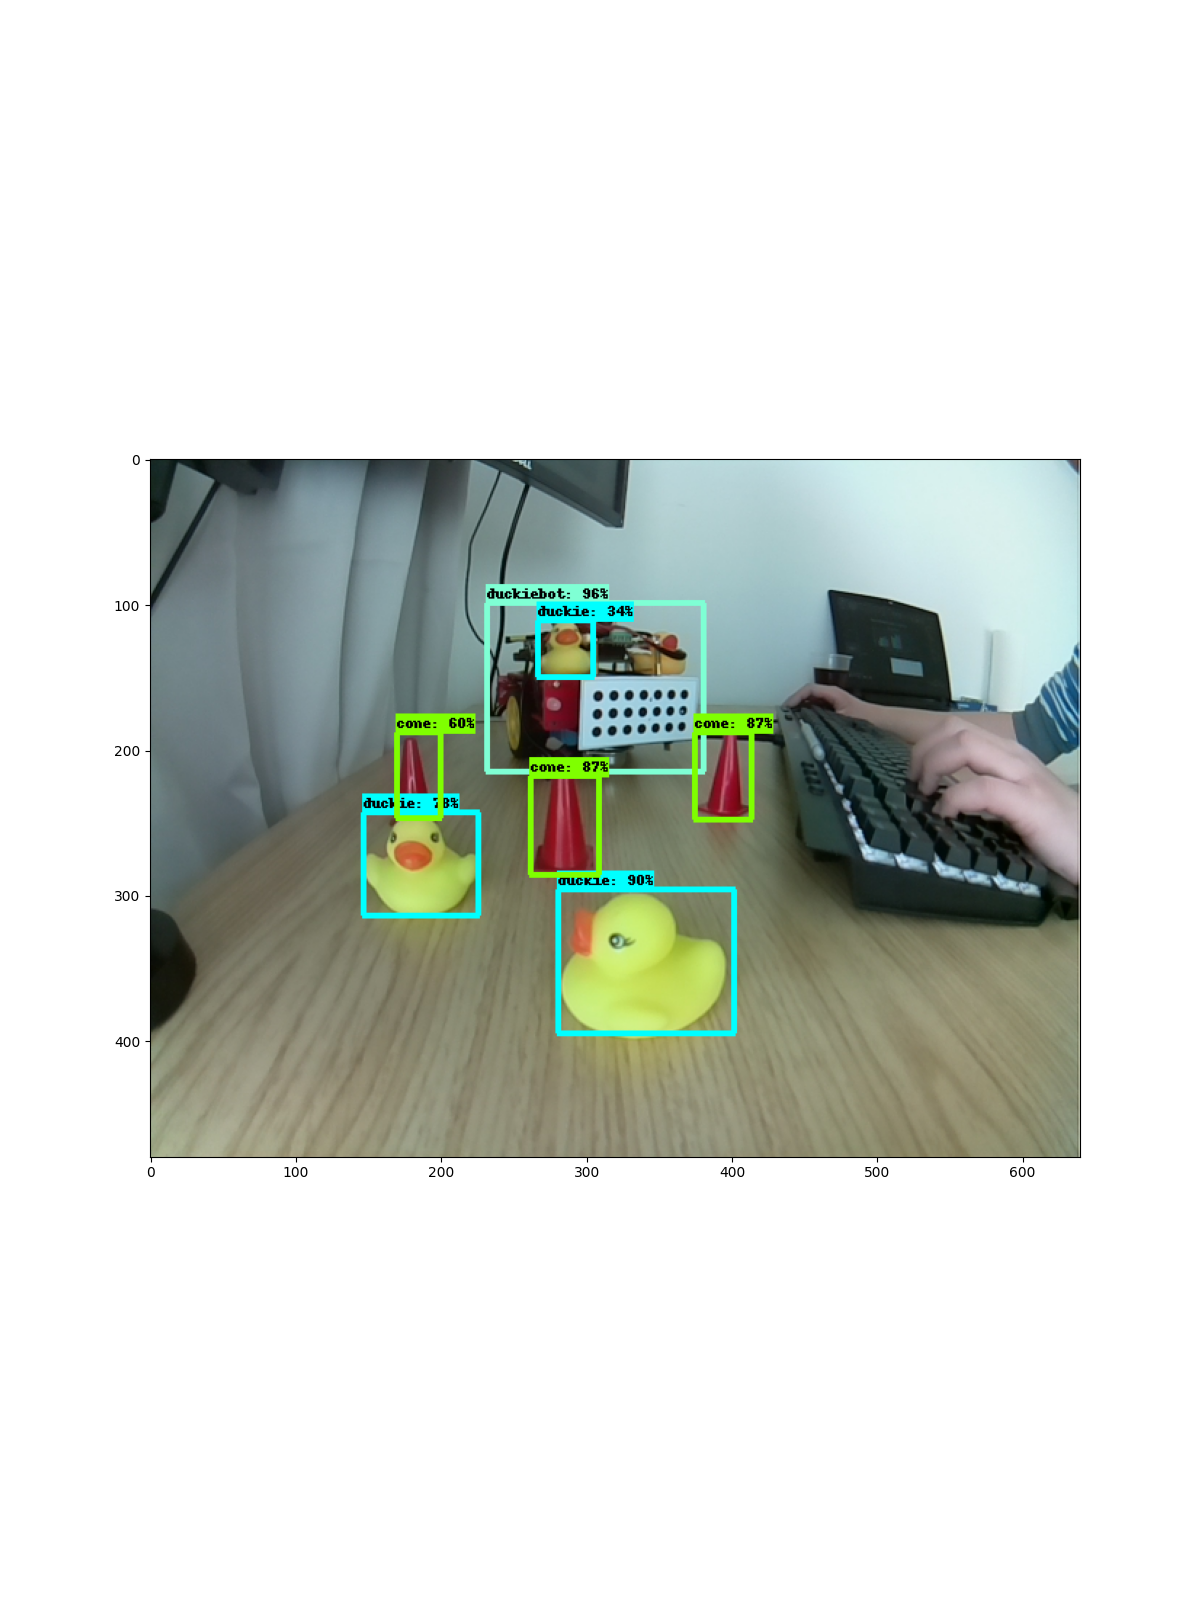
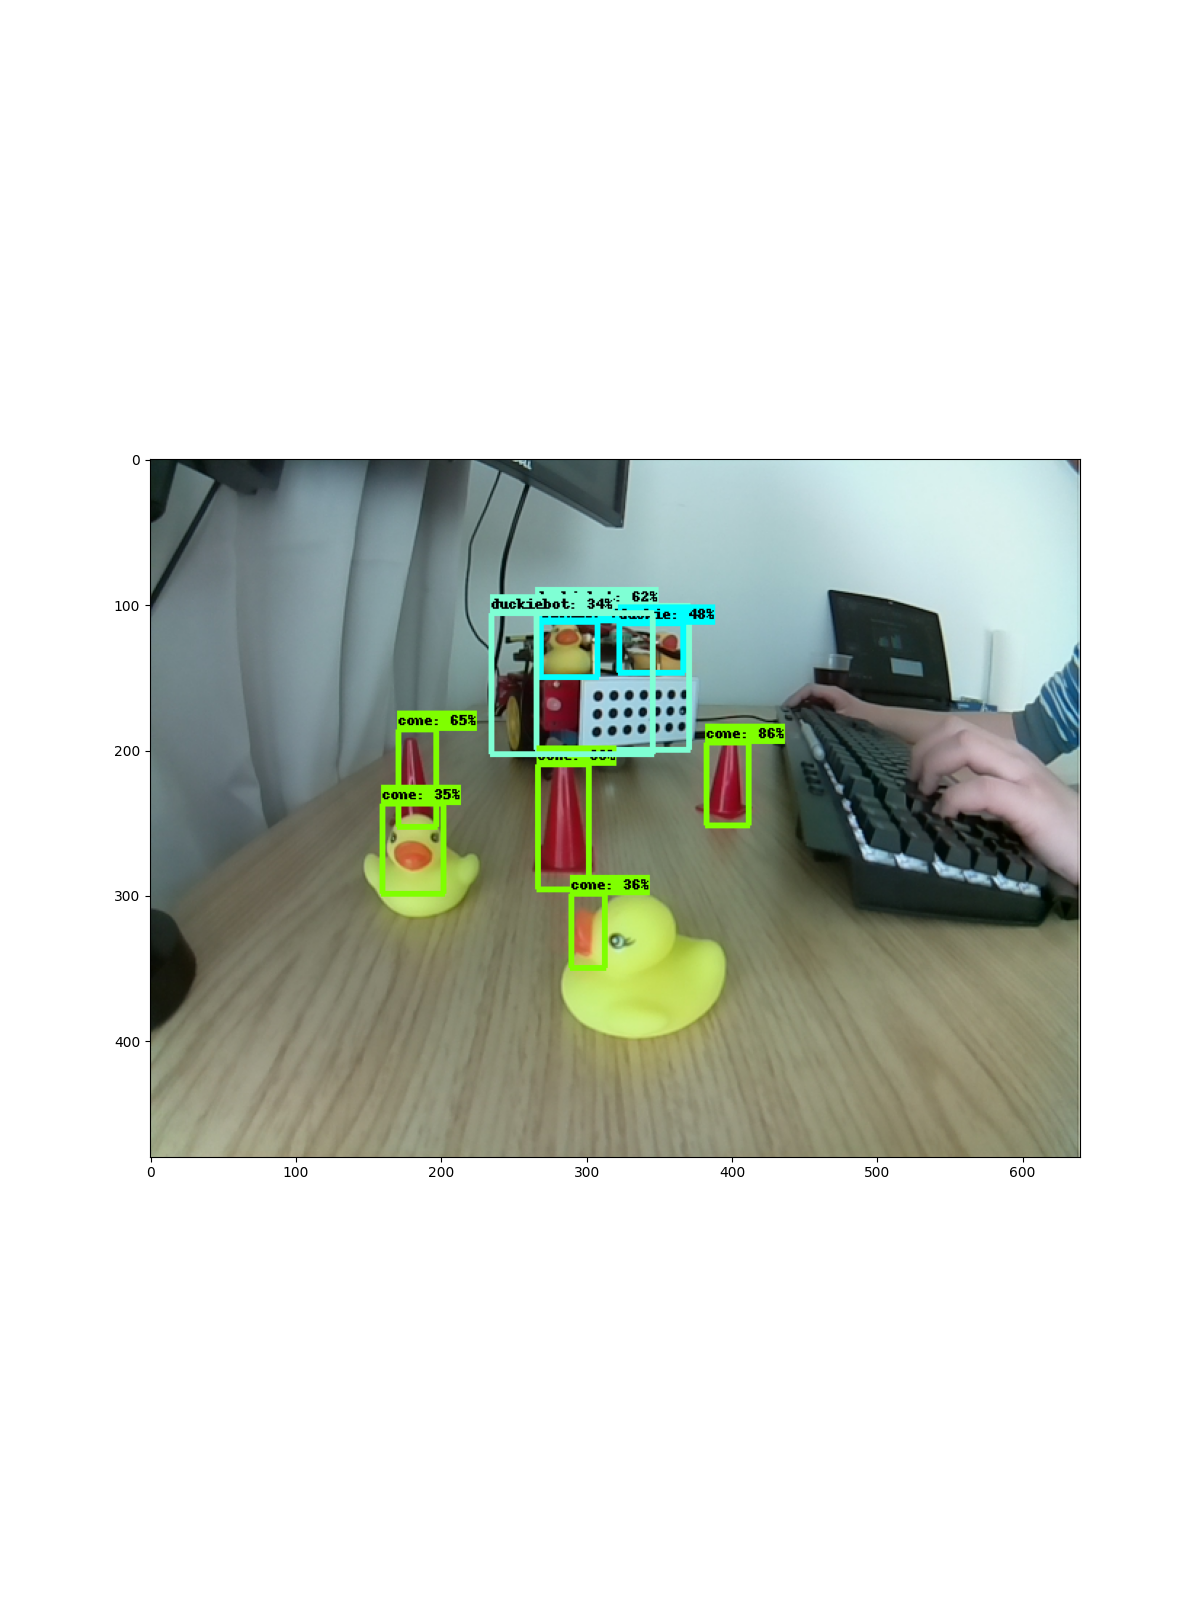
change mobile_net shape

Changed region(s): [[0.2775, 0.3438, 0.6475, 0.6562]]

diff --git a/runner.py b/runner.py
@@ -9,11 +9,11 @@ from object_detection.utils import config_util
 from object_detection.utils import visualization_utils as viz_utils
 from object_detection.builders import model_builder
 
-# TYPE="1_mobile_net_v2"
+TYPE="1_mobile_net_v2"
 # TYPE="3_efficient_det_d0"
 # TYPE="4_retina_net_50"
 # TYPE="5_efficient_det_d1"
-TYPE="6_faster_rcnn"
+# TYPE="6_faster_rcnn"
 
 CKPT_DICT = {
 "1_mobile_net_v2":"ckpt-16",
@@ -101,6 +101,7 @@ detections, predictions_dict, shapes = detect_fn(input_tensor)
 label_id_offset = 1
 image_np_with_detections = image_np.copy()
 
+print(detections)
 
 viz_utils.visualize_boxes_and_labels_on_image_array(
     image_np_with_detections,
@@ -113,7 +114,7 @@ viz_utils.visualize_boxes_and_labels_on_image_array(
     min_score_thresh=.30,
     agnostic_mode=False,
 )
-
+print("category_index {}".format(category_index))
 plt.figure(figsize=(12, 16))
 plt.imshow(image_np_with_detections)
 plt.savefig('image_with_detection.png')
